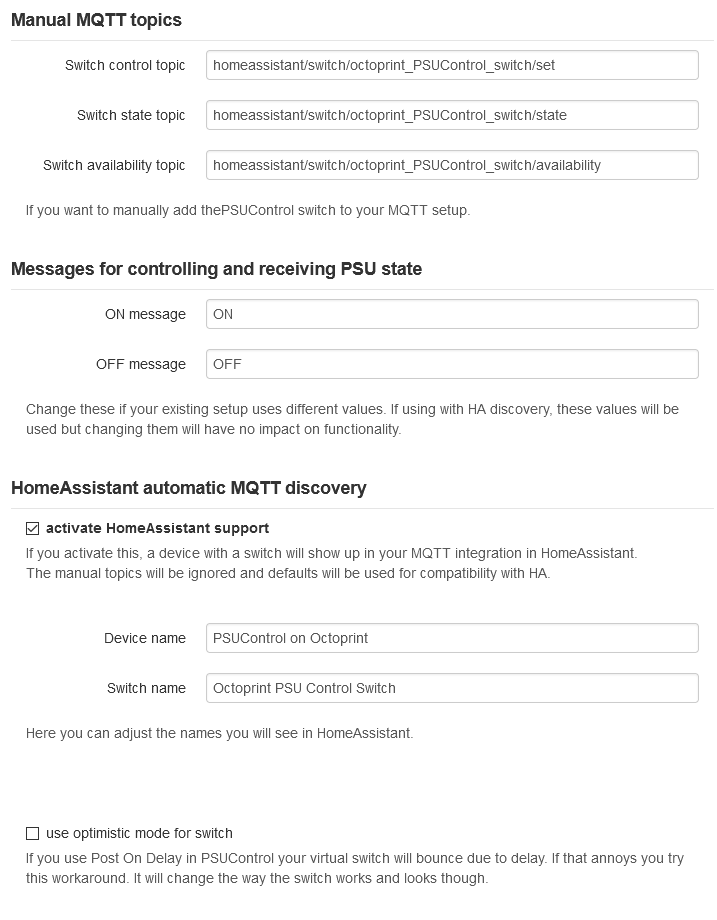
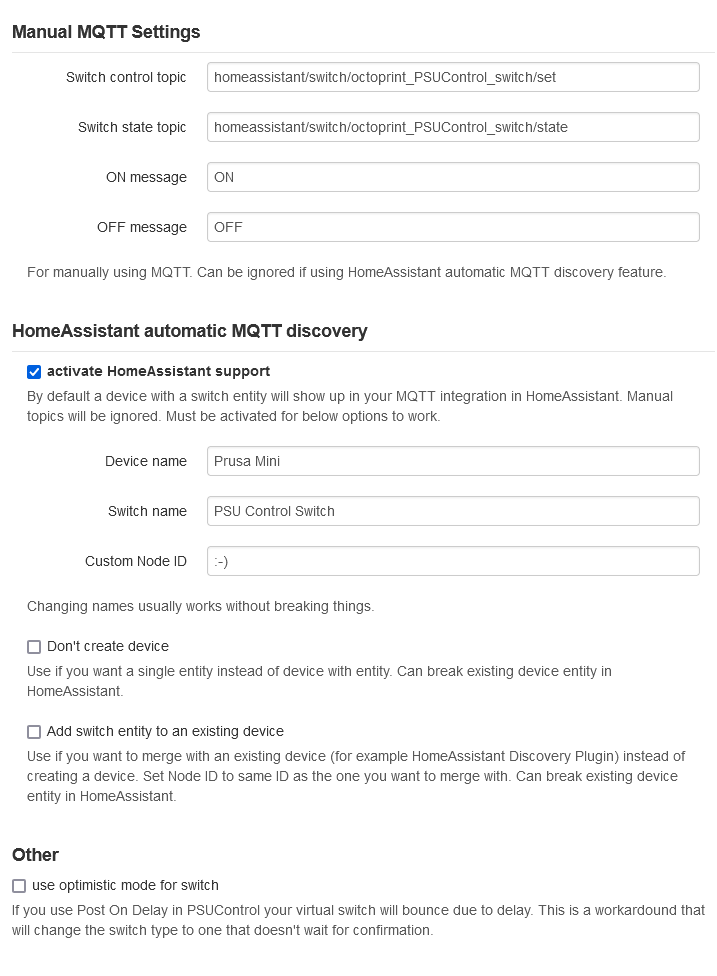
Added plugin psucontrol_mqtt (#949)
* Added plugin psucontrol_mqtt

* Update psucontrol_mqtt.md

mention requirement of the other 2 involved plugins

* Renamed plugin and described it more accurately

- Renaming plugin to describe it more accurately and help avoid confusion with other PSU Control related MQTT plugins.
- tidying up the text and point to github repo to avoid outdated information

* update screenshot of settings

diff --git a/_plugins/mqtt_for_psucontrol.md b/_plugins/mqtt_for_psucontrol.md
@@ -1,8 +1,8 @@
 ---
 layout: plugin
 id: mqtt_for_psucontrol
-title: MQTT for PSU Control
-description: Use MQTT and/or Home Assistant to control the switch you use with the PSU Control plugin.
+title: MQTT exposure for PSU Control
+description: Control your PSU Control with MQTT or Home Assistant
 archive: https://github.com/oerkel47/OctoPrint-MQTT-for-PSUcontrol/archive/main.zip
 homepage: https://github.com/oerkel47/OctoPrint-MQTT-for-PSUcontrol
 source: https://github.com/oerkel47/OctoPrint-MQTT-for-PSUcontrol
@@ -27,16 +27,15 @@ compatibility:
 
 ---
 
-# MQTT for PSU Control
-This plugin interfaces between [PSU Control](https://github.com/kantlivelong/OctoPrint-PSUControl) plugin and [MQTT](https://github.com/OctoPrint/OctoPrint-MQTT) plugin and adds support for [Home Assistant](https://www.home-assistant.io) discovery. 
+# MQTT exposure for PSU Control
+Exposes [PSU Control](https://github.com/kantlivelong/OctoPrint-PSUControl) switch on MQTT so you can access it from somewhere else. Supports Home Assistant discovery for easy setup.
 
-For more information please visit the [homepage](https://github.com/oerkel47/OctoPrint-MQTT-for-PSUcontrol).
+This plugin does **not** connect a smart plug to PSU Control. If this is what you need , take a look at "PSU Control - MQTT" instead.
 
-## What it does
-- Let's you control and monitor the switch that is configured in PSU Control via the MQTT protocol.
-- Supports Home Assistant discovery to integrate everything easily.
+**Please check the [github repo](https://github.com/oerkel47/OctoPrint-MQTT-for-PSUcontrol) for up to date information and more details**
 
-## What you need
- - configured and running [MQTT](https://github.com/OctoPrint/OctoPrint-MQTT) plugin for OctoPrint
- - [PSU Control](https://github.com/kantlivelong/OctoPrint-PSUControl) plugin for OctoPrint
- - optional: [Home Assistant](https://www.home-assistant.io)
+# Requirements:
+- [MQTT plugin for OctoPrint](https://plugins.octoprint.org/plugins/mqtt/)
+- [PSU Control plugin for OctoPrint](https://plugins.octoprint.org/plugins/psucontrol/)
+
+

diff --git a/_plugins/psucontrol_mqtt.md b/_plugins/psucontrol_mqtt.md
@@ -1,0 +1,38 @@
+---
+layout: plugin
+id: psucontrol_mqtt
+title: PSU Control - MQTT
+description: adds support for generic MQTT switches to PSU Control as a subplugin
+archive: https://github.com/oerkel47/OctoPrint-PSUControl-MQTT/archive/main.zip
+homepage: https://github.com/oerkel47/OctoPrint-PSUControl-MQTT
+source: https://github.com/oerkel47/OctoPrint-PSUControl-MQTT
+author: oerkel47
+license: AGPLv3
+featuredimage: /assets/img/plugins/psucontrol_mqtt/screenshot_settings.PNG
+date: 2021-10-05
+tags:
+- control
+- psucontrol
+- psucontrol subplugin
+- mqtt
+screenshots:
+- url: /assets/img/plugins/psucontrol_mqtt/screenshot_settings.PNG
+  alt: Screenshot of plugin settings page
+  caption: Screenshot of plugin settings page
+
+compatibility:
+  python: ">=3,<4"
+
+---
+
+# PSU Control - MQTT
+MQTT subplugin for PSU Control
+
+Lets you control any MQTT controlled switch with PSU Control.
+
+**Please check the [github repo](https://github.com/oerkel47/OctoPrint-PSUControl-MQTT) for up to date information and more details**
+
+# Requirements:
+- [MQTT plugin for OctoPrint](https://plugins.octoprint.org/plugins/mqtt/)
+- [PSU Control plugin for OctoPrint](https://plugins.octoprint.org/plugins/psucontrol/)
+
